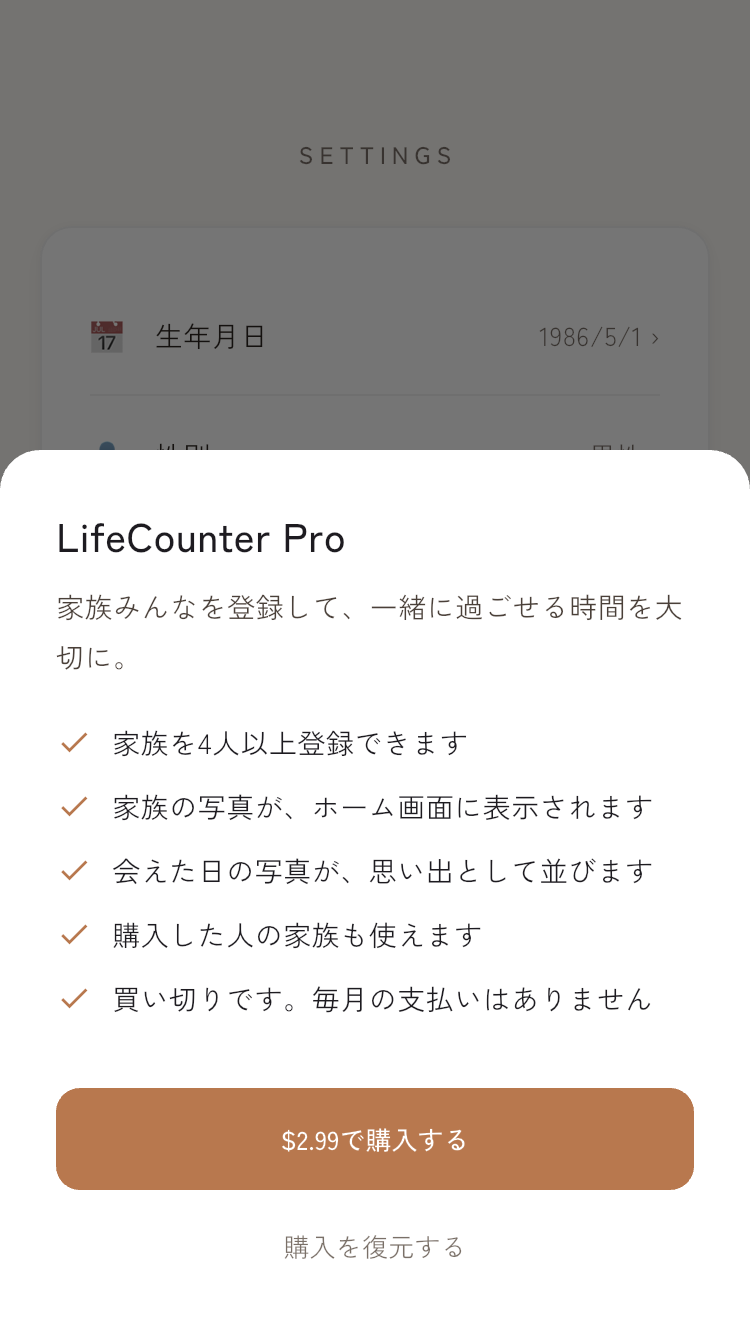
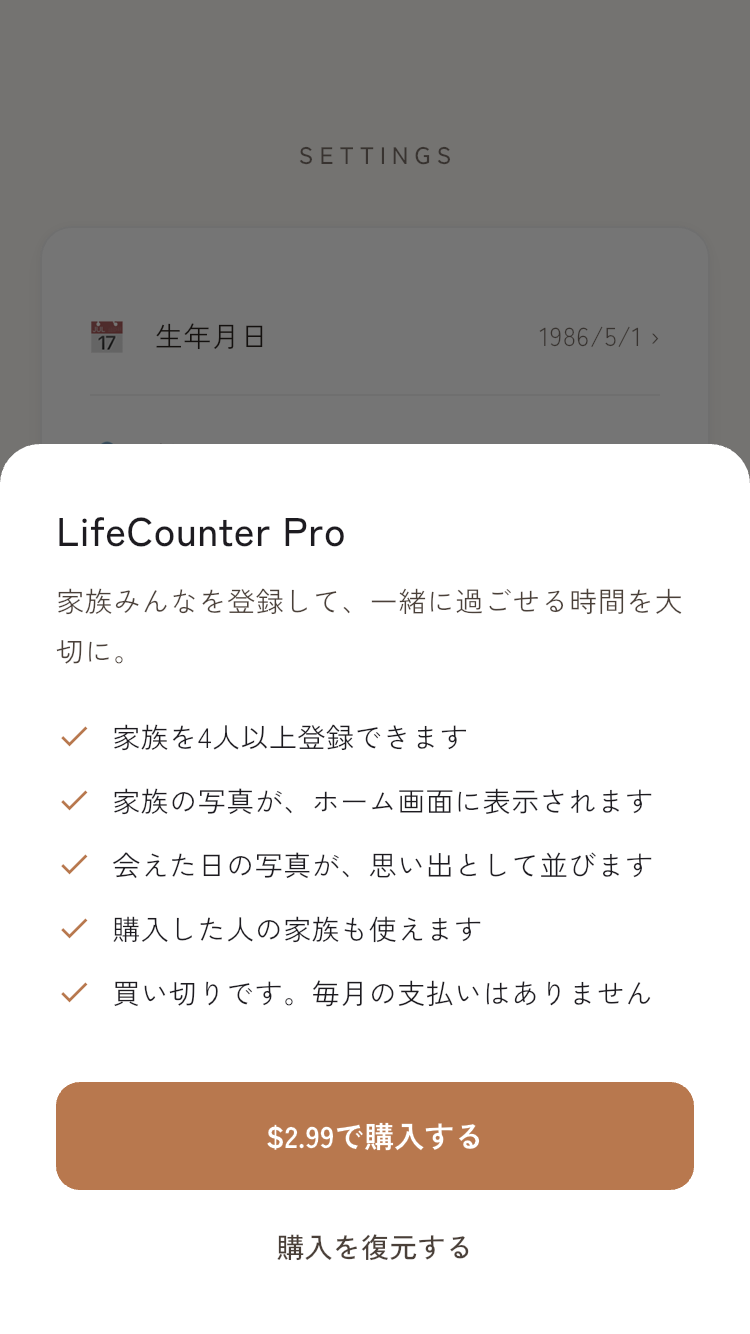
v2.0.0(途中): 写真つきウィジェットが Pro だと分かる表示、ボタンの文字を太く、ビルド12
- ウィジェット: 写真を付けた家族が出ていて未購入なら「写真つきは Pro」
- 家族の登録: 写真を選ぶと、未購入のあいだは「ウィジェットに写真を出すのは Pro」と表示
- 主ボタンの文字を 15pt・太字に、「購入を復元する」を濃く
- ウィジェットへのデータの受け渡しを確かめる integration test を追加

diff --git a/ios/FamilyWidget/FamilyWidget.swift b/ios/FamilyWidget/FamilyWidget.swift
@@ -73,11 +73,13 @@ struct NextEntry: TimelineEntry {
     let photo: UIImage?
     let yearCount: Int
     let hasFamily: Bool
+    /// 写真を付けているのに未購入(「写真つきは Pro」と出す)
+    let photoLocked: Bool
 }
 
 struct NextProvider: TimelineProvider {
     func placeholder(in context: Context) -> NextEntry {
-        NextEntry(date: Date(), name: "お母さん", days: 21, meetDate: nil, photo: nil, yearCount: 3, hasFamily: true)
+        NextEntry(date: Date(), name: "お母さん", days: 21, meetDate: nil, photo: nil, yearCount: 3, hasFamily: true, photoLocked: false)
     }
     func getSnapshot(in context: Context, completion: @escaping (NextEntry) -> Void) {
         completion(context.isPreview ? placeholder(in: context) : read())
@@ -90,6 +92,7 @@ struct NextProvider: TimelineProvider {
         let d = defaults
         let isPro = d?.bool(forKey: "isPro") ?? false
         var name: String? = nil, days: Int? = nil, meet: Date? = nil, photo: UIImage? = nil
+        var locked = false
         if let ts = d?.object(forKey: "nextMeetEpoch") as? Double {
             let cal = Calendar.current
             let m = cal.startOfDay(for: Date(timeIntervalSince1970: ts))
@@ -99,11 +102,13 @@ struct NextProvider: TimelineProvider {
                 days = left
                 meet = m
                 if isPro { photo = loadPhoto(d?.string(forKey: "nextMeetPhoto")) }
+                else { locked = d?.bool(forKey: "nextMeetHasPhoto") ?? false }
             }
         }
         return NextEntry(date: Date(), name: name, days: days, meetDate: meet, photo: photo,
                          yearCount: d?.integer(forKey: "yearCount") ?? 0,
-                         hasFamily: d?.bool(forKey: "hasFamily") ?? false)
+                         hasFamily: d?.bool(forKey: "hasFamily") ?? false,
+                         photoLocked: locked)
     }
 }
 
@@ -195,7 +200,9 @@ struct NextWidgetView: View {
                             Text("日").font(label(12)).foregroundColor(Tone.muted)
                         }
                     }
-                    if let m = entry.meetDate {
+                    if entry.photoLocked {
+                        Text("写真つきは Pro").font(label(10, .semibold)).foregroundColor(Tone.accent)
+                    } else if let m = entry.meetDate {
                         Text(meetFormatter.string(from: m)).font(label(11)).foregroundColor(Tone.text)
                     }
                 }
@@ -241,6 +248,9 @@ struct NextWidgetView: View {
                     }
                     if let m = entry.meetDate {
                         Text(meetFormatter.string(from: m)).font(label(12)).foregroundColor(Tone.text)
+                    }
+                    if entry.photoLocked {
+                        Text("写真つきは LifeCounter Pro").font(label(10, .semibold)).foregroundColor(Tone.accent)
                     }
                 }
                 .frame(maxWidth: .infinity, maxHeight: .infinity, alignment: .topLeading)

diff --git a/integration_test/widget_data_test.dart b/integration_test/widget_data_test.dart
@@ -1,0 +1,62 @@
+import 'dart:convert';
+import 'dart:io';
+import 'dart:ui';
+import 'package:flutter_test/flutter_test.dart';
+import 'package:home_widget/home_widget.dart';
+import 'package:integration_test/integration_test.dart';
+import 'package:isar/isar.dart';
+import 'package:life_counter/main.dart' as app;
+import 'package:life_counter/models/important_person.dart';
+import 'package:life_counter/models/meeting_log.dart';
+import 'package:life_counter/services/photo_store.dart';
+import 'package:shared_preferences/shared_preferences.dart';
+import 'helpers.dart';
+
+/// ウィジェットに渡るデータを調べる(Pro 購入済み・写真つき)
+void main() {
+  IntegrationTestWidgetsFlutterBinding.ensureInitialized();
+
+  testWidgets('widget data with photos', (tester) async {
+    final prefs = await SharedPreferences.getInstance();
+    await prefs.setInt('birth_date', DateTime(1986, 5, 1).millisecondsSinceEpoch);
+    await prefs.setBool('onboarding_completed', true);
+    await prefs.setBool('notification_enabled', false);
+    await prefs.setBool('pro_purchased', true);
+
+    app.main();
+    await wait(tester, 3000);
+
+    final dir = PhotoStore.dirPath;
+    // ignore: avoid_print
+    print('DIAG photo dir = $dir');
+    final recorder = PictureRecorder();
+    Canvas(recorder).drawRect(const Rect.fromLTWH(0, 0, 64, 64), Paint()..color = const Color(0xFFB8784E));
+    final img = await recorder.endRecording().toImage(64, 64);
+    final png = (await img.toByteData(format: ImageByteFormat.png))!.buffer.asUint8List();
+    await File('$dir/ptest.png').writeAsBytes(png);
+
+    final isar = Isar.getInstance()!;
+    final p = ImportantPerson()
+      ..nickname = 'お母さん'
+      ..birthDate = DateTime(1960, 1, 1)
+      ..relation = Relation.parent
+      ..meetingFrequency = 2
+      ..photoFile = 'ptest.png'
+      ..nextMeetDate = DateTime.now().add(const Duration(days: 5));
+    await isar.writeTxn(() => isar.importantPersons.put(p));
+    await isar.writeTxn(() => isar.meetingLogs.put(MeetingLog()
+      ..personId = p.id
+      ..date = DateTime.now().subtract(const Duration(days: 3))
+      ..note = 'テスト'
+      ..photoFile = 'ptest.png'));
+    await wait(tester, 3000);
+
+    for (final k in ['isPro', 'hasFamily', 'nextMeetName', 'nextMeetPhoto', 'nextMeetEpoch', 'memories']) {
+      final v = await HomeWidget.getWidgetData<Object>(k);
+      // ignore: avoid_print
+      print('DIAG widget[$k] = ${k == 'memories' && v != null ? (jsonDecode('$v') as List).length : v}');
+    }
+    // ignore: avoid_print
+    print('DIAG file exists = ${PhotoStore.file('ptest.png') != null}');
+  });
+}

diff --git a/lib/views/life/important_person_form_page.dart b/lib/views/life/important_person_form_page.dart
@@ -4,6 +4,8 @@ import '../../models/important_person.dart';
 import '../../services/life_calculator.dart';
 import '../../services/photo_store.dart';
 import '../family/family_avatar.dart';
+import 'package:flutter_riverpod/flutter_riverpod.dart';
+import '../../services/pro_service.dart';
 import '../../utils/freq_label.dart';
 import '../shared/app_colors.dart';
 import '../shared/app_picker.dart';
@@ -131,6 +133,20 @@ class _ImportantPersonFormPageState extends State<ImportantPersonFormPage> {
                         Text(_photo == null ? '写真を選ぶ' : '写真を変える',
                             style: GoogleFonts.zenKakuGothicNew(
                                 fontSize: 12, color: AppColors.accent)),
+                        // ウィジェットに写真が出ない理由が分かるように(未購入のあいだだけ)
+                        if (_photo != null)
+                          Consumer(builder: (context, ref, _) {
+                            if (ref.watch(proProvider).isPro) {
+                              return const SizedBox.shrink();
+                            }
+                            return Padding(
+                              padding: const EdgeInsets.only(top: 4),
+                              child: Text('ホーム画面のウィジェットに写真を出すのは Pro の機能です',
+                                  textAlign: TextAlign.center,
+                                  style: GoogleFonts.zenKakuGothicNew(
+                                      fontSize: 11, color: AppColors.textMuted)),
+                            );
+                          }),
                       ]),
                     ),
                   ),

diff --git a/lib/services/widget_sync.dart b/lib/services/widget_sync.dart
@@ -57,6 +57,8 @@ class WidgetSync {
           'nextMeetEpoch', next == null ? null : next.nextMeetDate!.millisecondsSinceEpoch / 1000);
       await HomeWidget.saveWidgetData<String>('nextMeetName', next?.nickname);
       await HomeWidget.saveWidgetData<String>('nextMeetPhoto', next?.photoFile);
+      // 未購入でも「写真を付けている」ことは渡す(ウィジェットで「写真つきは Pro」と伝えるため)
+      await HomeWidget.saveWidgetData<bool>('nextMeetHasPhoto', next?.photoFile != null);
       await HomeWidget.saveWidgetData<String>('memories', jsonEncode(memories));
       for (final k in _kinds) {
         await HomeWidget.updateWidget(iOSName: k);

diff --git a/lib/views/pro/pro_sheet.dart b/lib/views/pro/pro_sheet.dart
@@ -90,7 +90,9 @@ class ProSheet extends ConsumerWidget {
                   onPressed: pro.busy ? null : notifier.restore,
                   child: Text('購入を復元する',
                       style: GoogleFonts.zenKakuGothicNew(
-                          fontSize: 13, color: AppColors.textMuted)),
+                          fontSize: 14,
+                          fontWeight: FontWeight.w500,
+                          color: AppColors.textSecondary)),
                 ),
               ),
             ],

diff --git a/lib/views/shared/app_button.dart b/lib/views/shared/app_button.dart
@@ -58,8 +58,8 @@ class AppButton extends StatelessWidget {
             borderRadius: BorderRadius.circular(12),
           ),
           textStyle: GoogleFonts.zenKakuGothicNew(
-            fontSize: 13,
-            fontWeight: FontWeight.w500,
+            fontSize: 15,
+            fontWeight: FontWeight.w700,
           ),
         ),
         child: child,

diff --git a/lib/services/photo_store.dart b/lib/services/photo_store.dart
@@ -29,6 +29,9 @@ class PhotoStore {
     }
   }
 
+  /// 保存先のフォルダ（確認用）
+  static String? get dirPath => _dir?.path;
+
   static File? file(String? name) {
     if (name == null || _dir == null) return null;
     final f = File('${_dir!.path}/$name');
